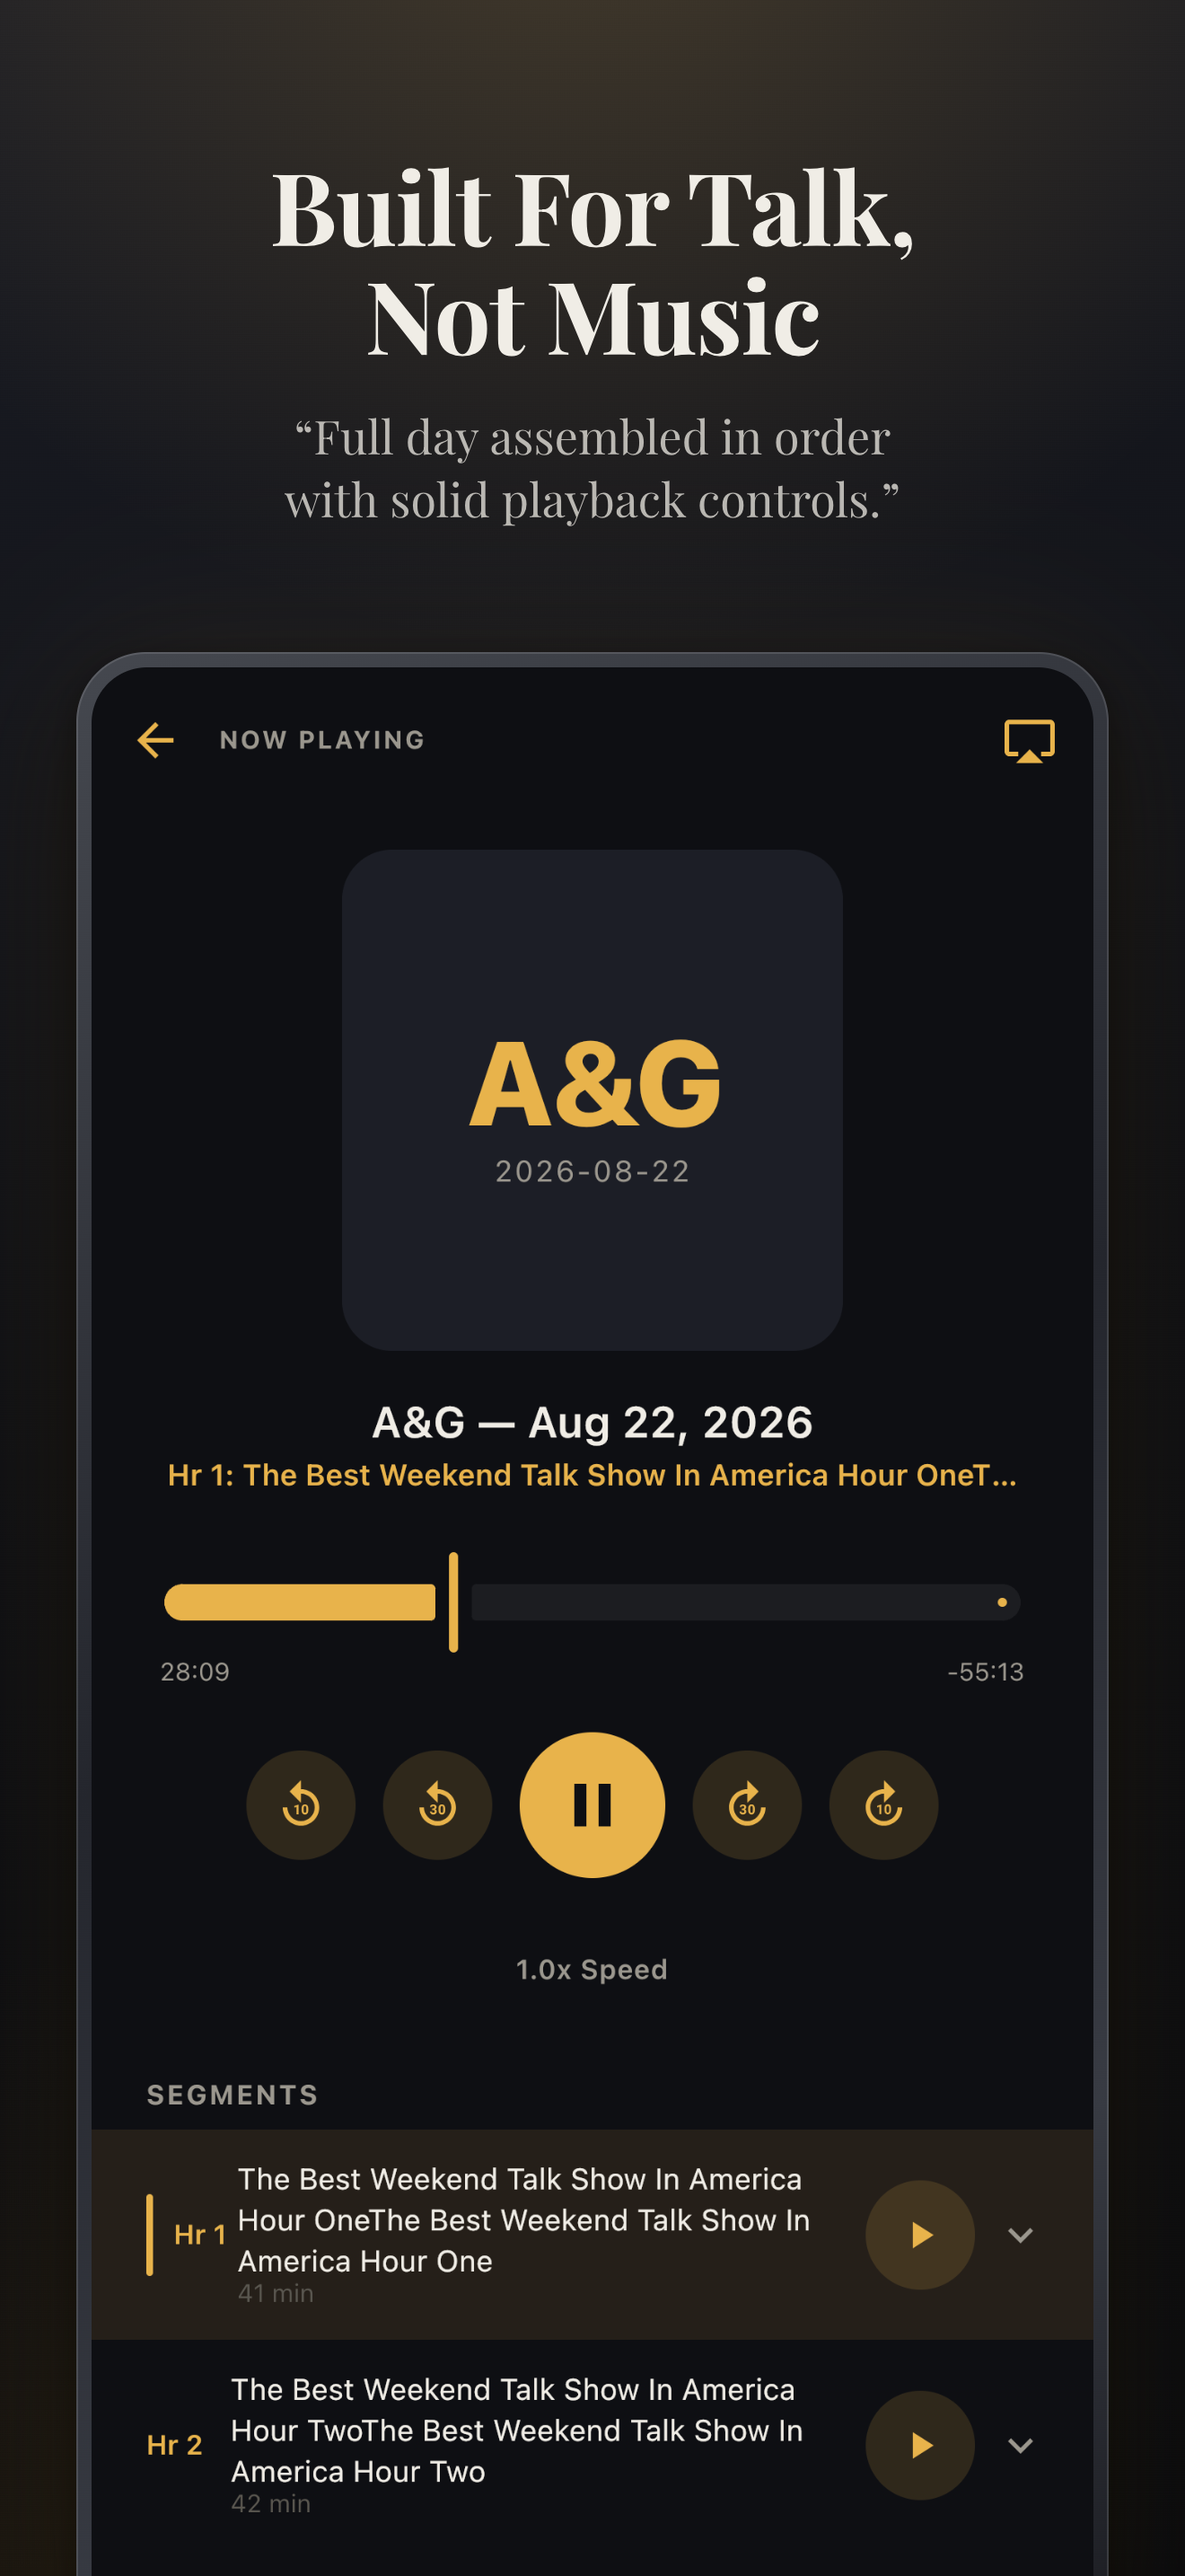
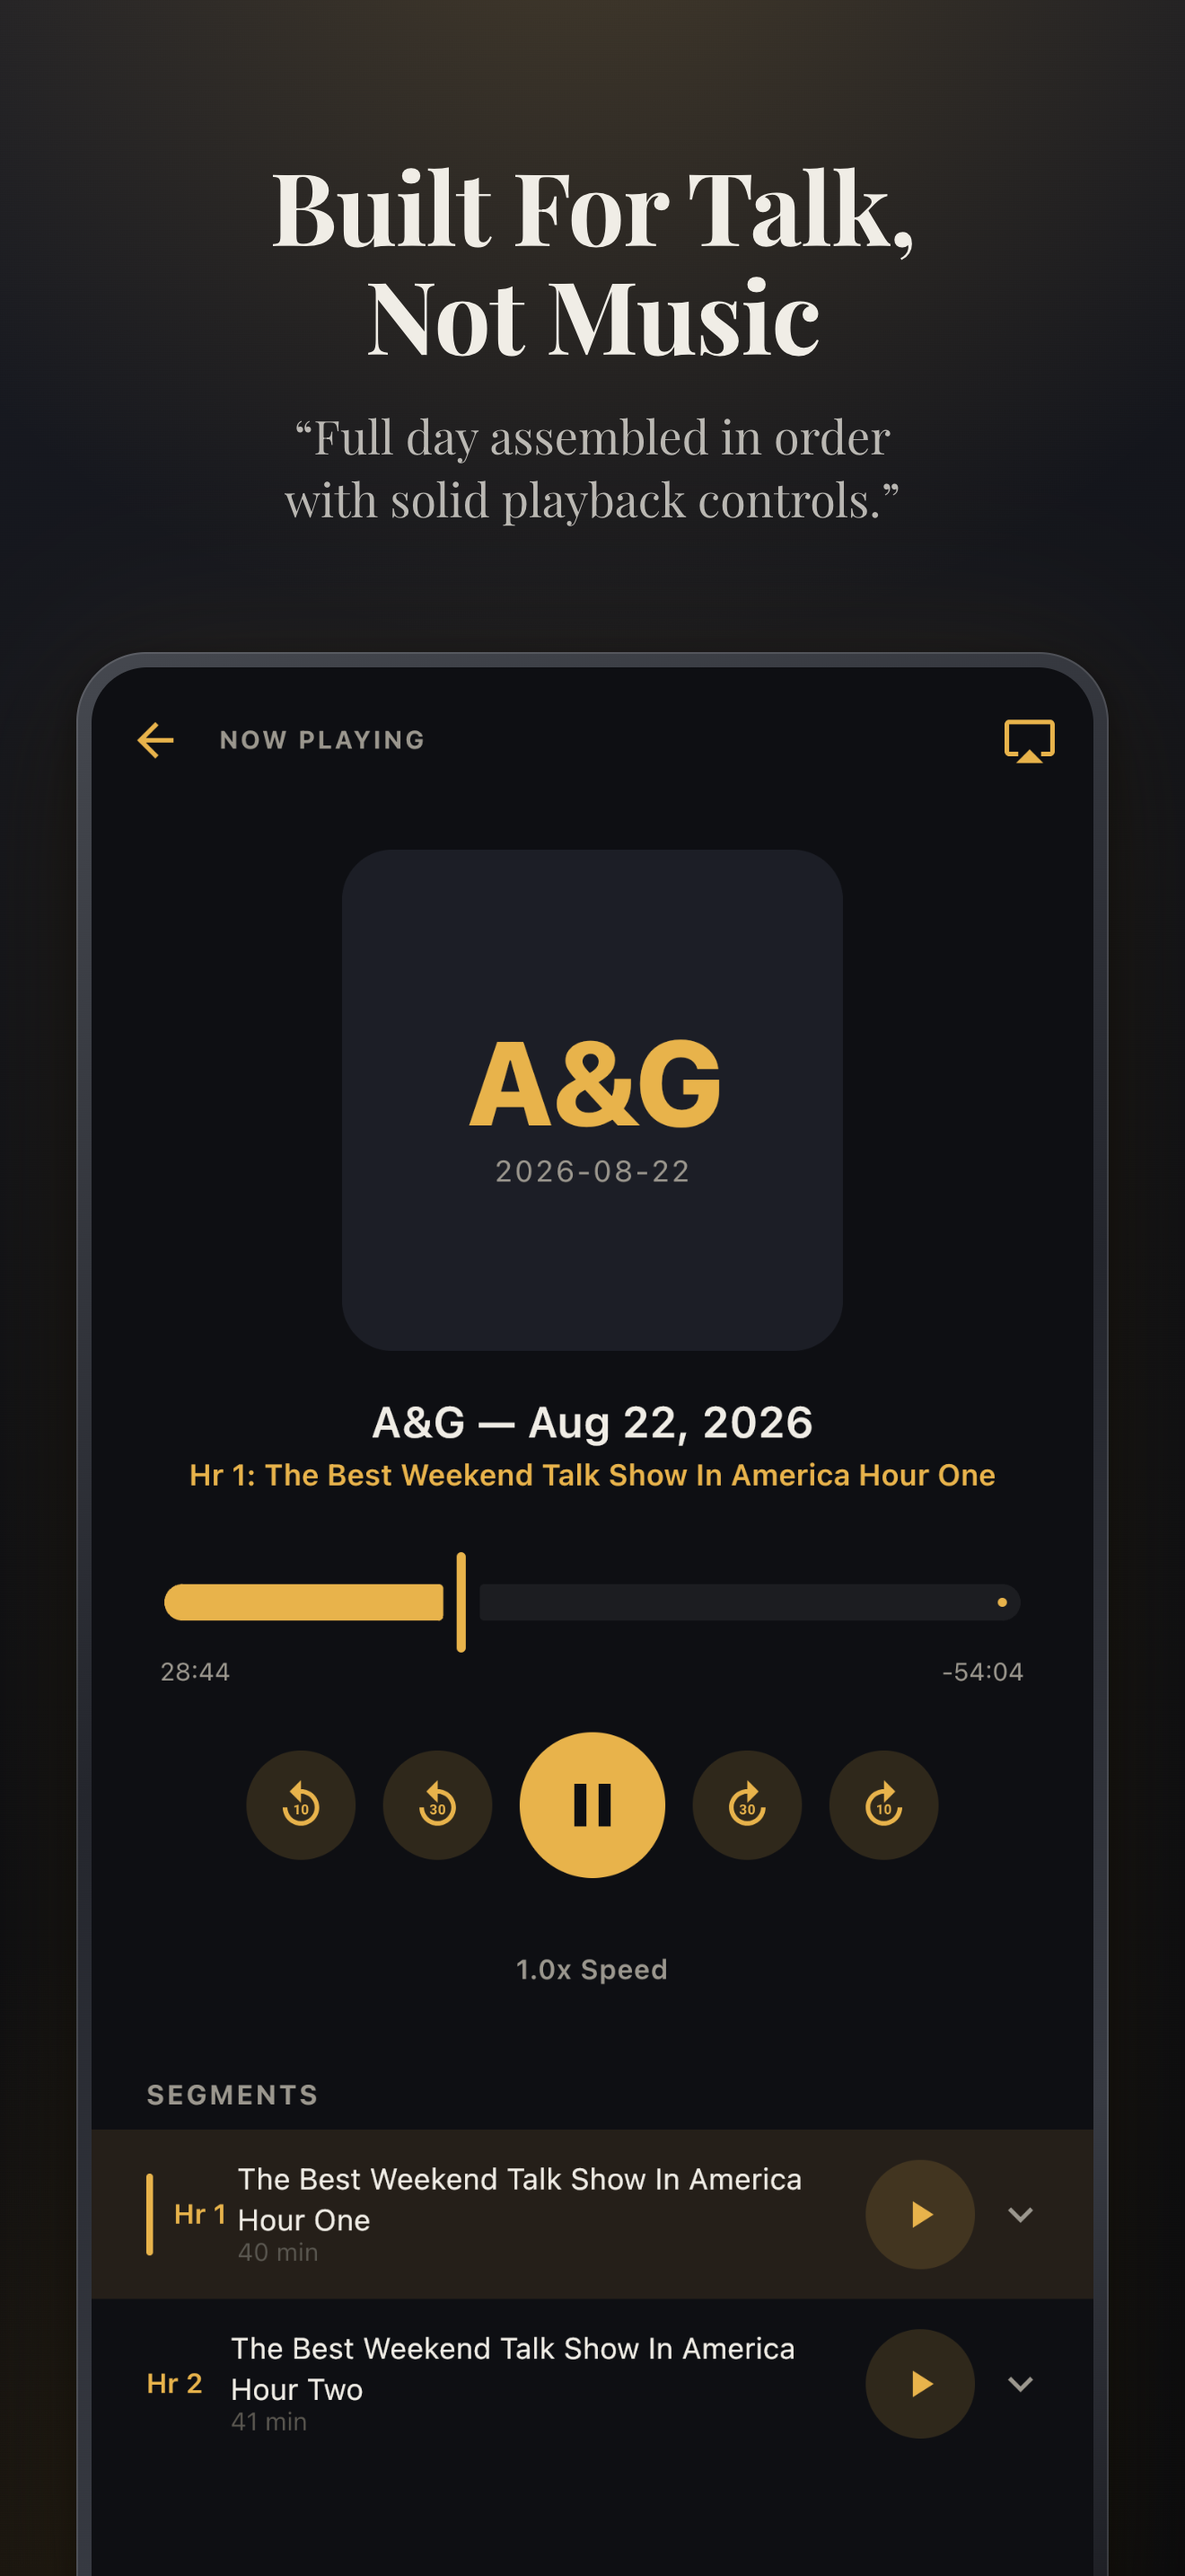
Regenerate store screenshots from a build with the parser fix
The previous batch was captured before the RSS parser fix and showed both
bugs on screen: episode descriptions carried a literal `&nbsp;` and the
player's segment list repeated each title ("...Hour OneThe Best Weekend Talk
Show In America Hour One"). Those images were about to go to both stores.

Re-captured all 24 raw device states (iPhone 16 Pro Max, iPad Pro 13", and
the Android emulator at both Play profiles) from a build containing the fix,
and rebuilt the four framed sets. Deep back-catalogue slides were checked
specifically: descriptions parsed before the fix decode correctly on
relaunch, so erasing the devices first turned out not to be necessary.

Also carries the in-flight edits that moved the builder's output paths under
screenshots/, ignored the raw capture batches, and updated the doc.

diff --git a/docs/promo-screenshots.md b/docs/promo-screenshots.md
@@ -13,10 +13,10 @@ Source: `tools/promo-screenshots/buildPromoScreenshots.mjs`.
 
 | Profile | Dimensions | Slides | Output |
 |---|---|---|---|
-| `iphone-6.9` | 1320×2868 | 9 | `app-store/screenshots/iphone-6.9/` |
-| `ipad-13` | 2064×2752 | 9 | `app-store/screenshots/ipad-13/` |
-| `android-phone` | 1080×1920 | 8 | `play-store/screenshots/phone/` |
-| `android-tablet` | 1440×2560 | 8 | `play-store/screenshots/tablet/` |
+| `iphone-6.9` | 1320×2868 | 9 | `screenshots/app-store/iphone-6.9/` |
+| `ipad-13` | 2064×2752 | 9 | `screenshots/app-store/ipad-13/` |
+| `android-phone` | 1080×1920 | 8 | `screenshots/play-store/phone/` |
+| `android-tablet` | 1440×2560 | 8 | `screenshots/play-store/tablet/` |
 
 **Play caps every device type at 8 screenshots**, so the two Play profiles
 exclude the second review wall (`09-reviews`); the builder throws rather than
@@ -159,16 +159,29 @@ falling back to a system face and reflowing the art-directed line breaks.
   impersonation policy both look at whether promotional art implies an
   affiliation that does not exist.
 
-## Known content bugs visible in these captures
+## Content bugs fixed in this batch
 
-Both are in the RSS/episode text pipeline, not the screenshot tooling:
+Two RSS-parsing bugs were visible in the previous batch and are fixed in
+`RssFeedParser.kt` (covered by `RssFeedParserTest`):
 
-1. Episode descriptions render raw `&nbsp;` instead of a decoded space.
-2. Segment titles are duplicated
-   ("…Hour One**The Best Weekend Talk Show In America Hour One**").
+1. Episode descriptions rendered raw `&nbsp;`. `cleanDescription` had a
+   hand-rolled chain of `.replace()` calls with no NBSP case; it is now a
+   single-pass entity decoder covering named, decimal, and hex entities.
+2. Segment titles were duplicated. `<title>` and `<itunes:title>` share a
+   localName, and the parser matched on localName alone, so Omny's two title
+   elements concatenated. Matching is now namespace-aware per field —
+   `itunes:duration` is the one field deliberately still matched by name.
 
-Both appear in slides 3–5. Fix them, then regenerate the batch and rebuild
-before uploading.
+If a future batch shows literal entities again, re-run
+`cd "Native Mobile" && ./gradlew :shared:iosSimulatorArm64Test` first: the
+tests cover both regressions.
+
+**Clearing cached descriptions before re-capturing.** Parsed descriptions are
+persisted, so a parser fix does not change what an existing install shows.
+Erase the simulator (`xcrun simctl erase <UDID>`) or uninstall on Android
+before re-capturing, or the old text is captured again. `simctl terminate` can
+fail silently while the app keeps running and rewrites its data — erasing the
+device is the reliable path.
 
 ## Before uploading
 
